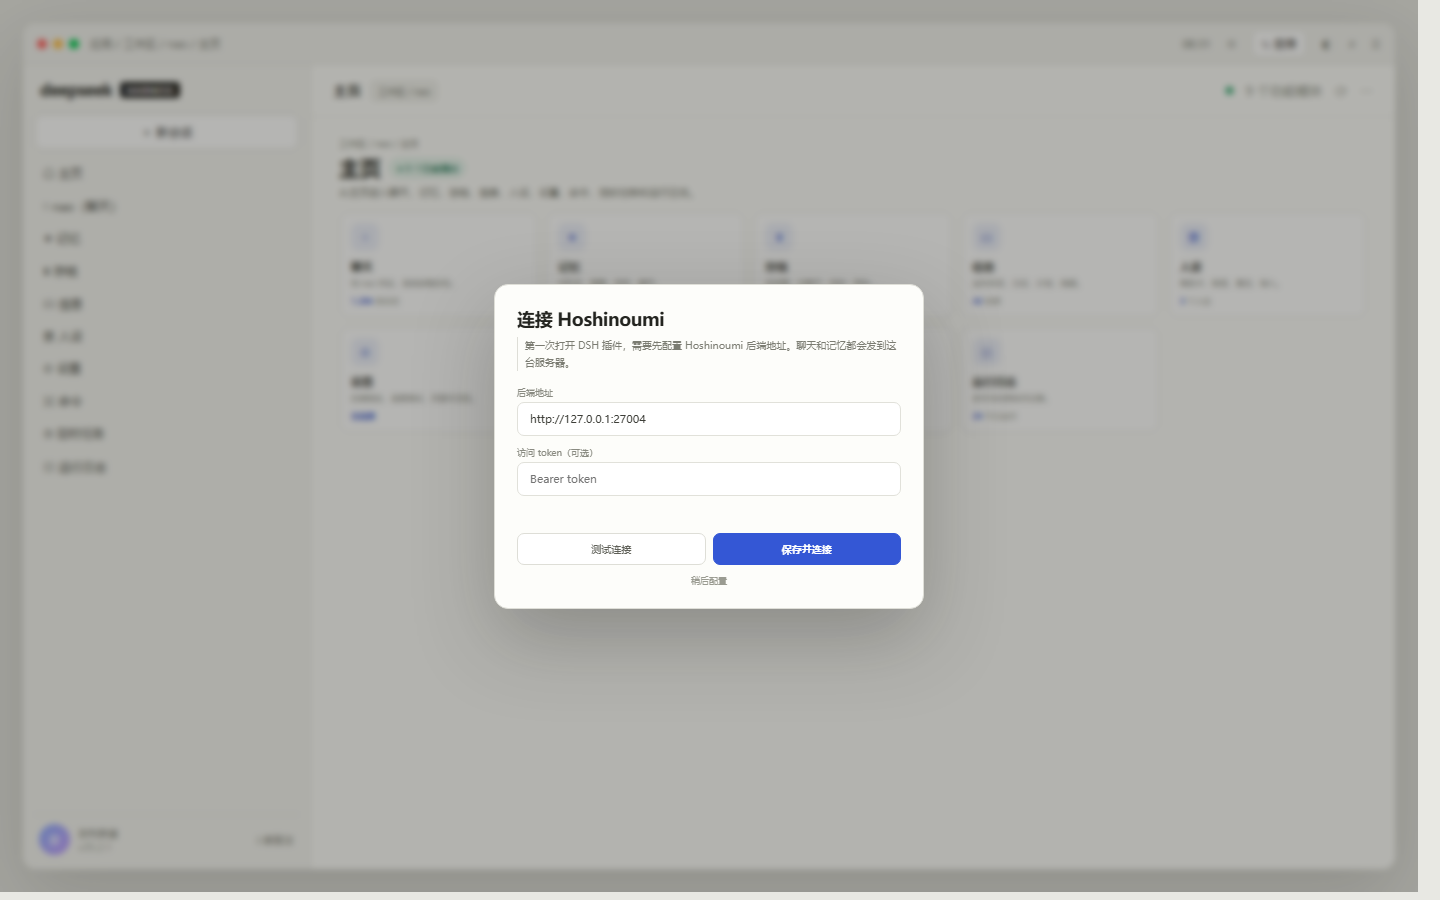
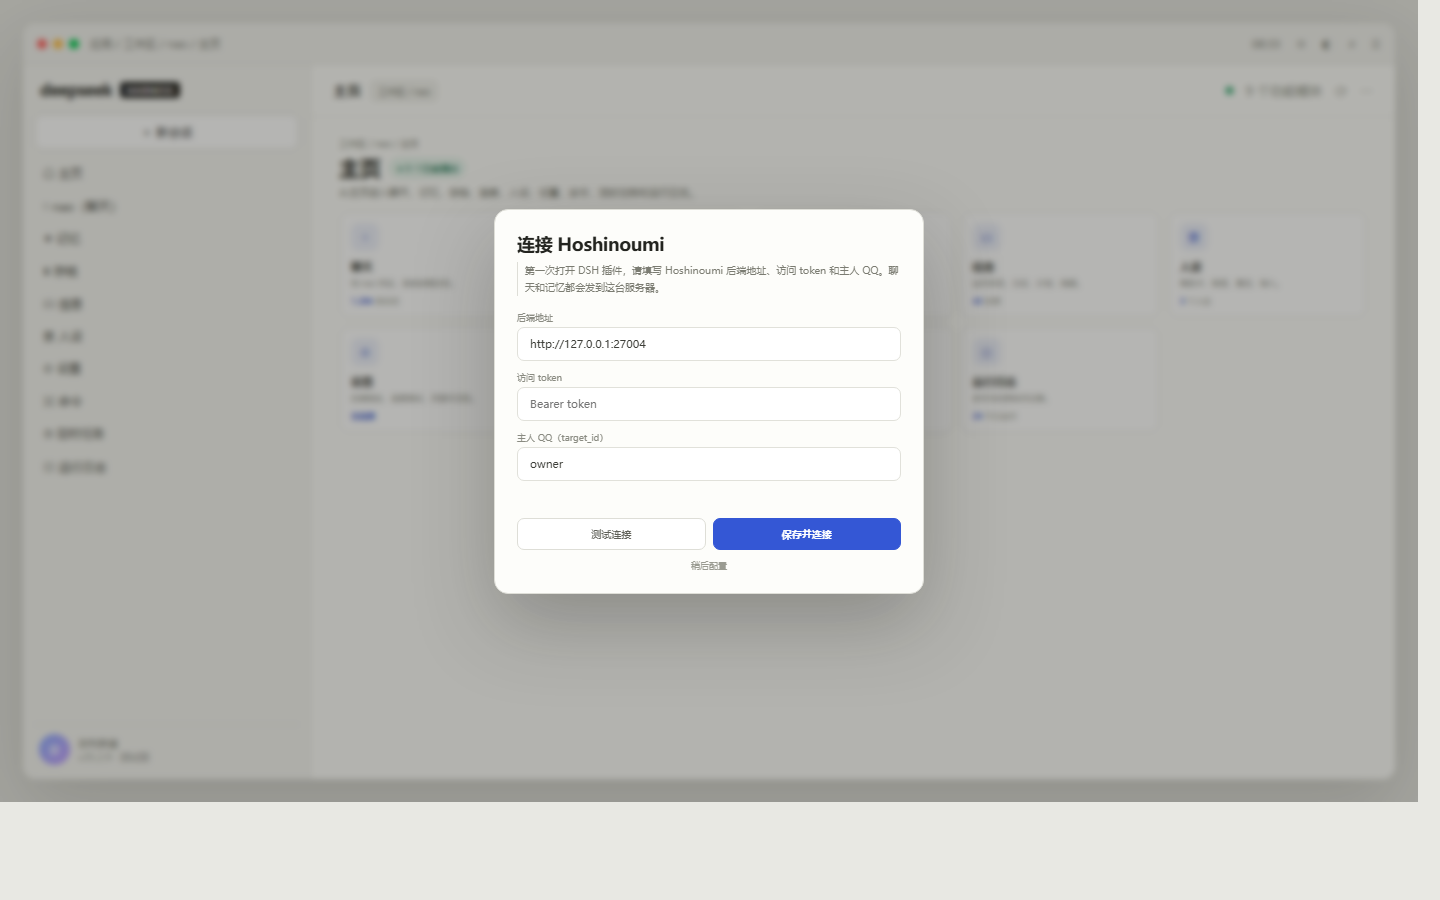
feat(v35.2.10.0): 测试版首次配置与去演示化

diff --git a/integrations/dsh-plugin/ui.html b/integrations/dsh-plugin/ui.html
@@ -3,7 +3,7 @@
 <head>
 <meta charset="utf-8">
 <meta name="viewport" content="width=device-width, initial-scale=1">
-<title>DSH · nao 演示</title>
+<title>nao · Hoshinoumi 测试版</title>
 <style>
 *{box-sizing:border-box}
 html,body{margin:0;height:100%;background:#e8e8e3;color:#23241f;font-family:"Microsoft YaHei","Noto Sans SC",sans-serif;overflow:hidden}
@@ -140,7 +140,7 @@ button,input{font:inherit}
 </head>
 <body>
 <div class="app" id="app">
- <div class="top"><div class="mac"><i></i><i></i><i></i></div><span id="breadcrumb">应用 / 工作区 / nao</span><div class="right"><span id="clock">21:04</span><span onclick="openSetup()" title="后端设置" style="cursor:pointer">⚙</span><button class="replay" onclick="replay()">↻ 重播</button><span>◐</span><span>⌕</span><span>☰</span></div></div>
+ <div class="top"><div class="mac"><i></i><i></i><i></i></div><span id="breadcrumb">应用 / 工作区 / nao</span><div class="right"><span id="clock">21:04</span><span onclick="openSetup()" title="后端设置" style="cursor:pointer">⚙</span><span>◐</span><span>⌕</span><span>☰</span></div></div>
  <div class="body">
   <aside class="side">
    <div class="logo">deepseek <b>HARNESS</b></div>
@@ -157,11 +157,11 @@ button,input{font:inherit}
     <div class="item" onclick="showScheduled()">◷ 定时任务</div>
     <div class="item" onclick="showLogs()">▥ 运行日志</div>
    </div>
-   <div class="foot"><div class="ava">奈</div><div>友利奈绪<br><span style="color:#a7a89e">v35.2.1</span></div><div style="margin-left:auto">↧ 新版本</div></div>
+   <div class="foot"><div class="ava">奈</div><div>友利奈绪<br><span style="color:#a7a89e">v35.2.9 · 测试版</span></div></div>
   </aside>
   <main class="main">
    <div class="mhead"><div class="mtitle" id="htitle">nao</div><div class="mode" id="hmode">◈ 工作区 · 本机后端</div><div class="mright"><span class="dot"></span><span id="hstatus">已连接</span><span>⟳</span><span>⋯</span></div></div>
-   <div class="tabs" id="tabs"><div class="tab on" onclick="toast('对话')">对话</div><div class="tab" onclick="toast('轨迹（演示）')">轨迹</div><div class="tab" onclick="toast('更多')">⋯</div></div>
+   <div class="tabs" id="tabs"><div class="tab on" onclick="toast('对话')">对话</div><div class="tab" onclick="toast('轨迹（暂未开放）')">轨迹</div><div class="tab" onclick="toast('更多')">⋯</div></div>
    <div class="page on" id="pageChat">
     <div class="chat" id="chat">
      <div class="banner" id="banner">● 已自动加载历史对话 · 1,284 条 · 最后一条 21:03<div class="bar"><i id="barfill"></i></div></div>
@@ -213,10 +213,10 @@ button,input{font:inherit}
  </div>
 </div>
 <div class="modal" id="setupModal">
- <div class="modalcard"><h2>连接 Hoshinoumi</h2><div class="sub">第一次打开 DSH 插件，需要先配置 Hoshinoumi 后端地址。聊天和记忆都会发到这台服务器。</div>
+ <div class="modalcard"><h2>连接 Hoshinoumi</h2><div class="sub">第一次打开 DSH 插件，请填写 Hoshinoumi 后端地址、访问 token 和主人 QQ。聊天和记忆都会发到这台服务器。</div>
   <div class="mlabel">后端地址</div><div class="minput"><input id="baseInput" placeholder="http://127.0.0.1:27004"></div>
-  <div class="mlabel">访问 token（可选）</div><div class="minput"><input id="tokenInput" type="password" placeholder="Bearer token"></div>
-  <div class="mlabel">主人 target_id（QQ）</div><div class="minput"><input id="targetInput" placeholder="owner"></div>
+  <div class="mlabel">访问 token</div><div class="minput"><input id="tokenInput" type="password" placeholder="Bearer token"></div>
+  <div class="mlabel">主人 QQ（target_id）</div><div class="minput"><input id="targetInput" placeholder="例如 123456789"></div>
   <div class="mstatus" id="setupStatus"></div>
   <div class="mrow"><button class="mbtn" onclick="testBackend()">测试连接</button><button class="mbtn primary" onclick="saveBackend()">保存并连接</button></div>
   <div class="mskip" onclick="closeSetup()">稍后配置</div>
@@ -335,15 +335,19 @@ function openSetup(){const m=document.getElementById('setupModal');document.getE
 function closeSetup(){document.getElementById('setupModal').classList.remove('show');}
 async function testBackend(){
  const url=document.getElementById('baseInput').value.trim();const st=document.getElementById('setupStatus');
+ const token=document.getElementById('tokenInput').value.trim();const target=document.getElementById('targetInput').value.trim();
  if(!/^https?:\/\//.test(url)){st.className='mstatus err';st.textContent='地址需要以 http:// 或 https:// 开头';return;}
  st.className='mstatus';st.textContent='正在连接 '+url+' …';
- try{const r=await fetch('/api/hoshinoumi/test',{method:'POST',headers:{'content-type':'application/json'},body:JSON.stringify({base_url:url,token:document.getElementById('tokenInput').value,target_id:document.getElementById('targetInput').value})});const j=await r.json();if(!r.ok||!j.ok)throw new Error(j.message||('HTTP '+r.status));st.className='mstatus ok';st.textContent='连接成功 · '+(j.latency_ms||0)+'ms · schema '+(j.ready?.schema??'33');}catch(e){st.className='mstatus err';st.textContent='连接失败：'+e.message;}
+ try{const r=await fetch('/api/hoshinoumi/test',{method:'POST',headers:{'content-type':'application/json'},body:JSON.stringify({base_url:url,token,target_id:target})});const j=await r.json();if(!r.ok||!j.ok)throw new Error(j.message||('HTTP '+r.status));st.className='mstatus ok';st.textContent='连接成功 · '+(j.latency_ms||0)+'ms · schema '+(j.ready?.schema??'33');}catch(e){st.className='mstatus err';st.textContent='连接失败：'+e.message;}
 }
 async function saveBackend(){
  const url=document.getElementById('baseInput').value.trim();const st=document.getElementById('setupStatus');
  if(!/^https?:\/\//.test(url)){st.className='mstatus err';st.textContent='地址需要以 http:// 或 https:// 开头';return;}
+ const token=document.getElementById('tokenInput').value.trim();const target=document.getElementById('targetInput').value.trim();
+ if(!token){st.className='mstatus err';st.textContent='请填写访问 token';return;}
+ if(!target){st.className='mstatus err';st.textContent='请填写主人 QQ';return;}
  st.className='mstatus';st.textContent='正在保存…';
- try{const r=await fetch('/api/hoshinoumi/config',{method:'POST',headers:{'content-type':'application/json'},body:JSON.stringify({base_url:url,token:document.getElementById('tokenInput').value,target_id:document.getElementById('targetInput').value})});const j=await r.json();if(!r.ok)throw new Error(j.message||('HTTP '+r.status));localStorage.setItem('hoshinoumi_target',document.getElementById('targetInput').value||'owner');st.className='mstatus ok';st.textContent='已保存，正在进入…';setTimeout(()=>{closeSetup();toast('后端已配置 · '+url);},450);}catch(e){st.className='mstatus err';st.textContent='保存失败：'+e.message;}
+ try{const r=await fetch('/api/hoshinoumi/config',{method:'POST',headers:{'content-type':'application/json'},body:JSON.stringify({base_url:url,token,target_id:target})});const j=await r.json();if(!r.ok)throw new Error(j.message||('HTTP '+r.status));localStorage.setItem('hoshinoumi_target',document.getElementById('targetInput').value||'owner');st.className='mstatus ok';st.textContent='已保存，正在进入…';setTimeout(()=>{closeSetup();toast('后端已配置 · '+url);},450);}catch(e){st.className='mstatus err';st.textContent='保存失败：'+e.message;}
 }
 async function loadHistory(){
  try{
@@ -356,11 +360,10 @@ async function loadHistory(){
   rows.forEach(x=>appendMsg({who:x.role==='user'?'me':'bot',text:String(x.content||''),meta:String(x.created_at||'').slice(11,16)||''}));
  }catch{}
 }
-async function loadBackendConfig(){try{const r=await fetch('/api/hoshinoumi/config');const j=await r.json();if(j.target_id)localStorage.setItem('hoshinoumi_target',j.target_id);if(!j.configured)setTimeout(()=>openSetup(),500);else setTimeout(loadHistory,900);}catch{setTimeout(()=>openSetup(),500);}}
+async function loadBackendConfig(){try{const r=await fetch('/api/hoshinoumi/config');const j=await r.json();if(j.target_id)localStorage.setItem('hoshinoumi_target',j.target_id);if(!j.configured||!j.hasToken)setTimeout(()=>openSetup(),500);else setTimeout(loadHistory,900);}catch{setTimeout(()=>openSetup(),500);}}
 function checkSetup(force){if(force||!localStorage.getItem(GW_KEY))setTimeout(()=>openSetup(),500);}
 
-clock();setInterval(clock,30000);replay();
-loadBackendConfig();
+clock();setInterval(clock,30000);loadBackendConfig();
 const h=location.hash.slice(1);
 if(h==='cmd')setTimeout(()=>showCmd('tools'),400);
 if(h==='overview')setTimeout(()=>showOverview(),400);

diff --git a/integrations/dsh-plugin/client.js b/integrations/dsh-plugin/client.js
@@ -41,7 +41,7 @@ if (typeof window !== 'undefined' && window.__ModuleLoader__ && !window.__HOSHIN
       const frame = document.createElement('iframe')
       frame.setAttribute('data-nao-frame', '')
       frame.setAttribute('title', 'Hoshinoumi nao')
-      frame.src = '/api/hoshinoumi/ui'
+      frame.src = '/api/hoshinoumi/ui?v=35.2.10'
       close.addEventListener('click', () => overlay.remove())
       overlay.addEventListener('keydown', (e) => { if (e.key === 'Escape') overlay.remove() })
       bar.appendChild(close)

diff --git a/integrations/dsh-plugin/index.js b/integrations/dsh-plugin/index.js
@@ -81,7 +81,7 @@ async function backendFetch(cfg, path, init = {}) {
 
 async function handleApi(req, res, path) {
   if (path === '/api/hoshinoumi/health' && req.method === 'GET') {
-    return sendJson(res, 200, { ok: true, version: '35.2.9.0', config: CONFIG_FILE })
+    return sendJson(res, 200, { ok: true, version: '35.2.10.0', config: CONFIG_FILE })
   }
 
   if (path === '/api/hoshinoumi/ui' && req.method === 'GET') {

diff --git a/tests/test_v1820.py b/tests/test_v1820.py
@@ -46,7 +46,7 @@ class TestV1820(unittest.TestCase):
     def test_version_bumped(self):
         from bot.core import version
 
-        self.assertEqual(version.VERSION, "35.2.9.0")
+        self.assertEqual(version.VERSION, "35.2.10.0")
 
 
 if __name__ == "__main__":

diff --git a/bot/core/version.py b/bot/core/version.py
@@ -14,7 +14,7 @@ import subprocess
 import sys
 import time
 
-VERSION = "35.2.9.0"         # 与 README / tag 对齐；发版时改这里
+VERSION = "35.2.10.0"         # 与 README / tag 对齐；发版时改这里
 _started_at = time.time()
 _cache = {}
 

diff --git a/integrations/dsh-plugin/README.md b/integrations/dsh-plugin/README.md
@@ -22,7 +22,7 @@ Web profile：
 dsh plugin --profile web add link:D:\Desktop\Desktop\develop\NapCat+Pyhon\integrations\dsh-plugin
 ```
 
-桌面版通过 DSH 插件管理安装本地目录（本机已安装到 desktop/web 两个 profile，版本 35.2.9）。
+桌面版通过 DSH 插件管理安装本地目录（本机已安装到 desktop/web 两个 profile，版本 35.2.10）。
 
 ## 使用
 
